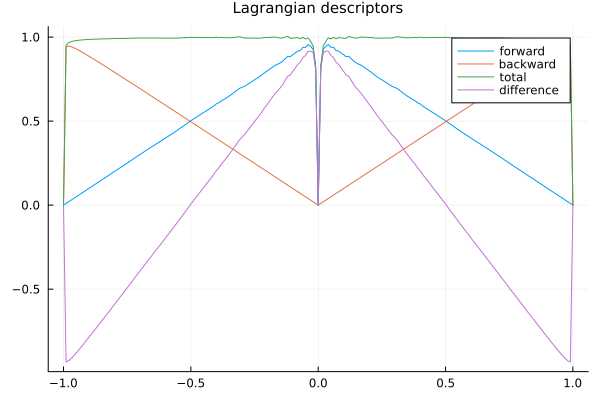
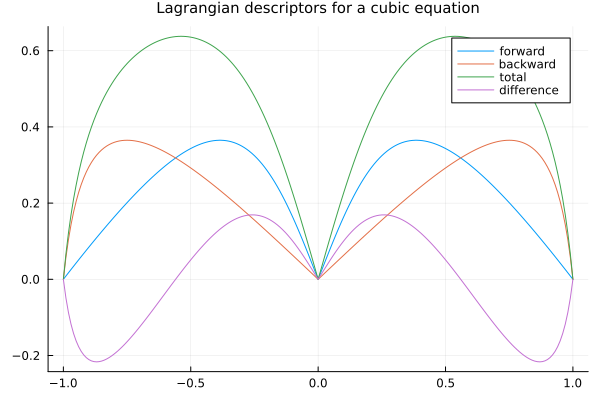
remove nonautonomous cubic

diff --git a/docs/src/tutorial_ODEs.md b/docs/src/tutorial_ODEs.md
@@ -126,24 +126,15 @@ Although one-dimensional problems are easier to understand, the method also work
    \frac{\mathrm{d}x}{\mathrm{d}t} = x - x^3
 ```
 
-and a non-autonomous version
-
-```math
-   \frac{\mathrm{d}x}{\mathrm{d}t} = cos(\omega t)^2x - x^3.
-```
-
-The autonomous version has two stationary solutions, associated to the fixed points $x=0$ and $x=1$. The non-autonomous version still has the fixed point $x=0$.
-
-For simulating the autonomous case with the non-autonomous formulation, we just set ``\omega = 0``.
+This equation has two stationary solutions, associated with the fixed points $x=0$ and $x=1$.
 
 We setup the `ODEProblem`:
 
 ```julia
-f(u, p, t) = cos(p * t)^3 * u - u^3
+f(u, p, t) = u - u^3
 
 u0 = 0.5
-tspan = (0.0, 5.0)
-p = 0.0
+tspan = (0.0, 1.0)
 prob = ODEProblem(f, u0, tspan, p)
 ```
 
@@ -168,7 +159,7 @@ plot(
     uu0,
     lagsol(:forward),
     label = "forward",
-    title = "Lagrangian descriptors",
+    title = "Lagrangian descriptors for a cubic equation",
     titlefont = 10,
 )
 plot!(uu0, lagsol(:backward), label = "backward")
@@ -181,27 +172,3 @@ savefig("img/cubic.png")
 In any of the Lagrangian descriptors (forward, backward, total, and difference) we distinguish the two fixed points.
 
 ![Cubic](img/cubic.png)
-
-For the non-autonomous case, we just remake the problem with a non-zero ``\omega``:
-
-```julia
-p = 8π
-prob = remake(prob, p = p)
-lagprob = LagrangianDescriptorProblem(prob, M, uu0)
-lagsol = solve(lagprob, Tsit5())
-
-plot(
-    uu0,
-    lagsol(:forward),
-    label = "forward",
-    title = "Lagrangian descriptors",
-    titlefont = 10,
-)
-plot!(uu0, lagsol(:backward), label = "backward")
-plot!(uu0, lagsol(), label = "total")
-plot!(uu0, lagsol(:difference), label = "difference")
-
-savefig("img/cubic2.png")
-```
-
-![Cubic nonautonous](img/cubic2.png)
